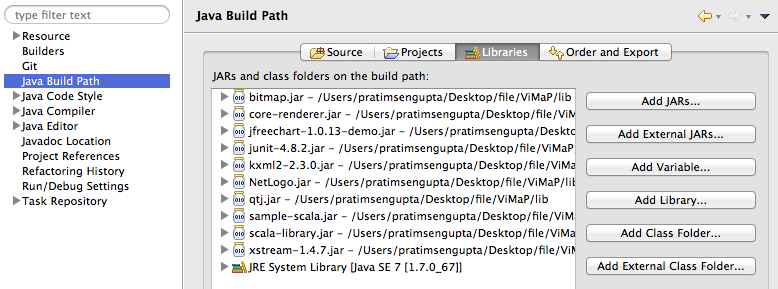
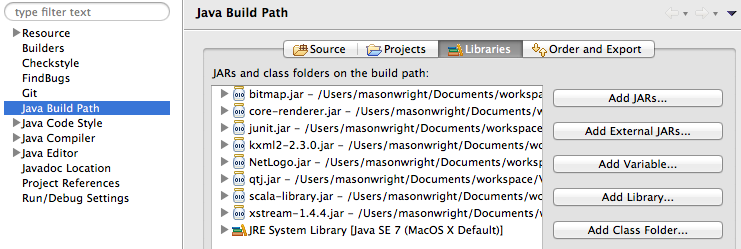
removed sample-scala and jfreechart from tutorial and screenshot. updated tutorial to use 5.0.1 NetLogo and the new GitHub address

diff --git a/resources/download.html b/resources/download.html
@@ -78,7 +78,7 @@
     this must be the same directory as the Eclipse workspace.  At the command prompt, enter the following:
     <ul>
       <li style="list-style-type: none;">
-        <span id = "code">$ git clone https://github.com/pratim/ViMAP.git</span>
+        <span id = "code">$ git clone https://github.com/vimapk12/ViMAP.git</span>
       </li>
     </ul>    
     This will create a new repository called 'ViMAP' and clone of all the files 
@@ -135,12 +135,12 @@
 <ol>
   <li> 
     <a href = "https://ccl.northwestern.edu/netlogo/download.shtml" target = "_blank"> 
-      Download NetLogo version 4.1.3
+      Download NetLogo version 5.0.1
     </a>
     and open the .dmg disk image.
   </li>
   <li> 
-    Drag the NetLogo 4.1.3 icon to your dock and/or to your Applications folder.
+    Drag the NetLogo 5.0.1 icon to your dock and/or to your Applications folder.
     You will be using it quite a bit during development.
   </li>
 </ol>
@@ -149,13 +149,12 @@
 <h4>JAR FILES</h4>
 <ol>
   <li>
-    You need to obtain ten .jar files and add them in Eclipse as external libraries.
-    Five of the jars are located in the NetLogo disk image file (.dmg) that you just downloaded. They are:
+    You need to obtain eight .jar files and add them in Eclipse as external libraries.
+    Four of the jars are located in the NetLogo disk image file (.dmg) that you just downloaded. They are:
     <ul>
       <li> NetLogo.jar </li>
       <li> qtj.jar (extensions -> qtj) </li>
       <li> bitmap.jar (extensions -> bitmap) </li>
-      <li> sample-scala.jar (extensions -> sample-scala) </li>
       <li> scala-library.jar (lib) </li>
     </ul>
   </li>
@@ -165,10 +164,6 @@
       <li> 
         <a href = "http://xstream.codehaus.org/download.html" target = "_blank">
         xstream-1.4.7.jar</a> (click on Binary distribution to download)
-      </li>
-      <li> 
-        <a href = "http://sourceforge.net/projects/jfreechart/files/1.%20JFreeChart/1.0.13/" target = "_blank">jfreechart-1.0.13.jar</a> 
-        (click on jfreechart-1.0.13.zip to download. Jar file can be found under lib folder
       </li>
       <li><a href = "http://sourceforge.net/projects/kxml/files/kxml2/2.3.0/" target = "_blank">kxml2-2.3.0.jar</a></li>
       <li> 
